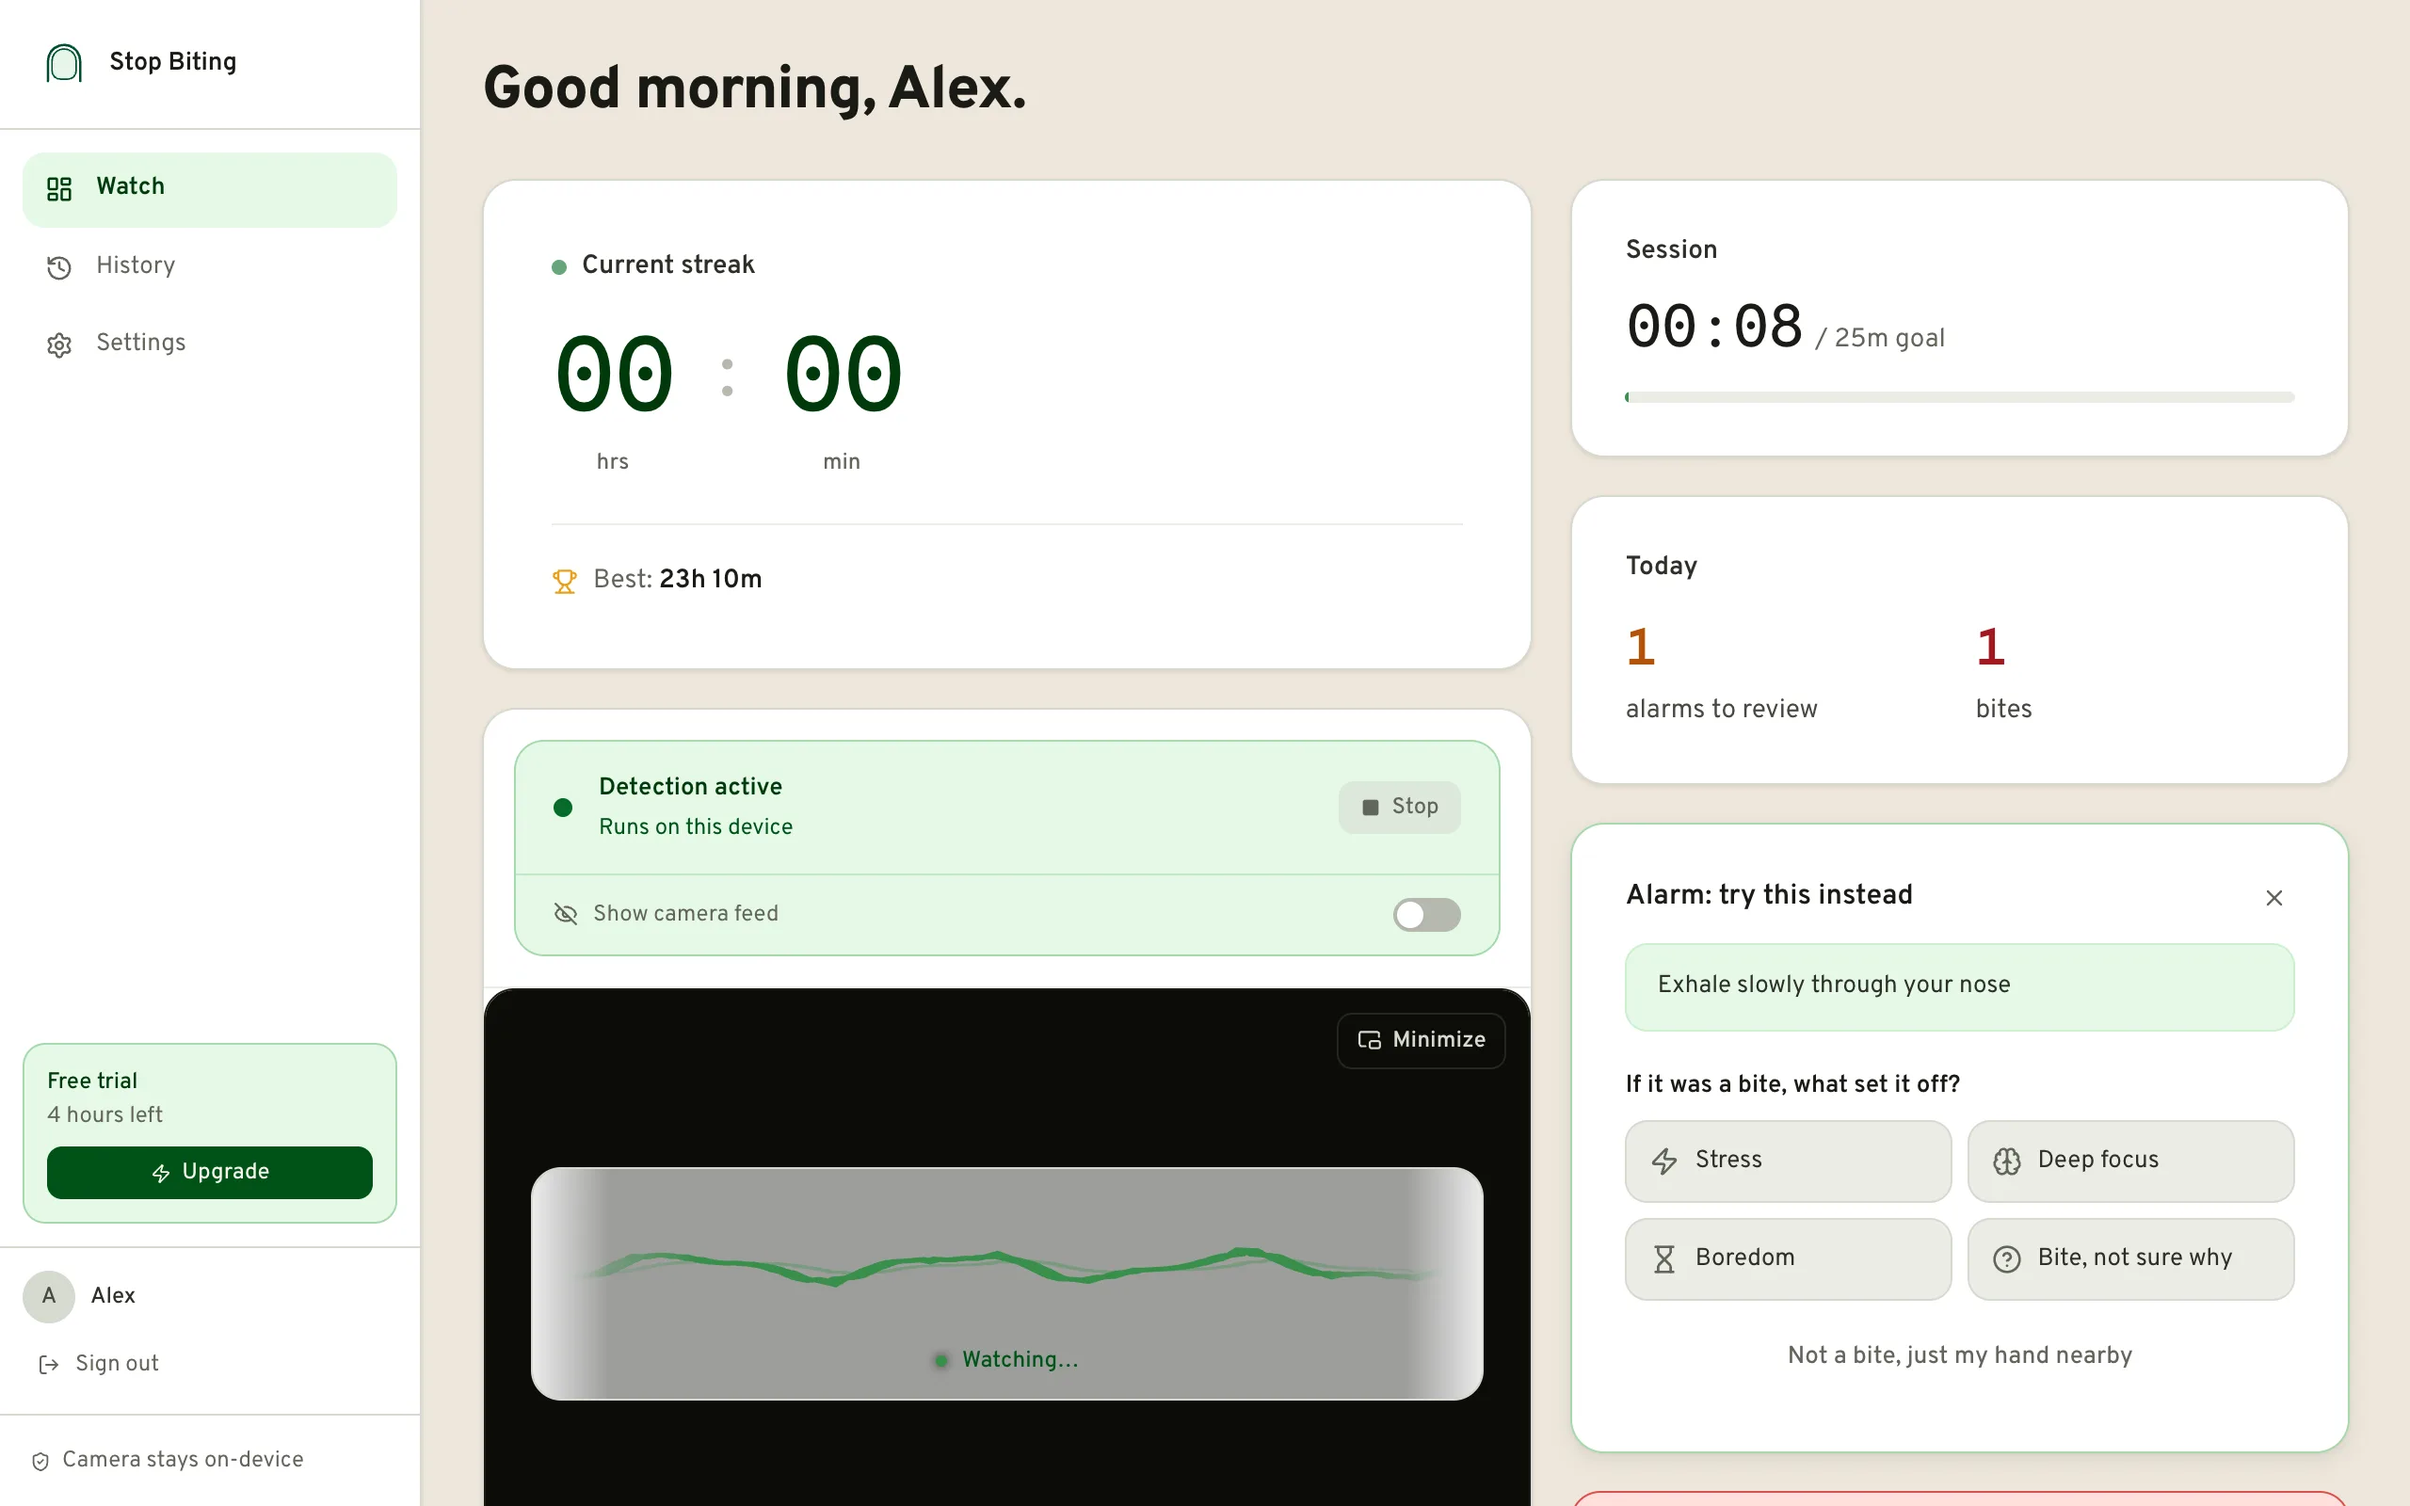
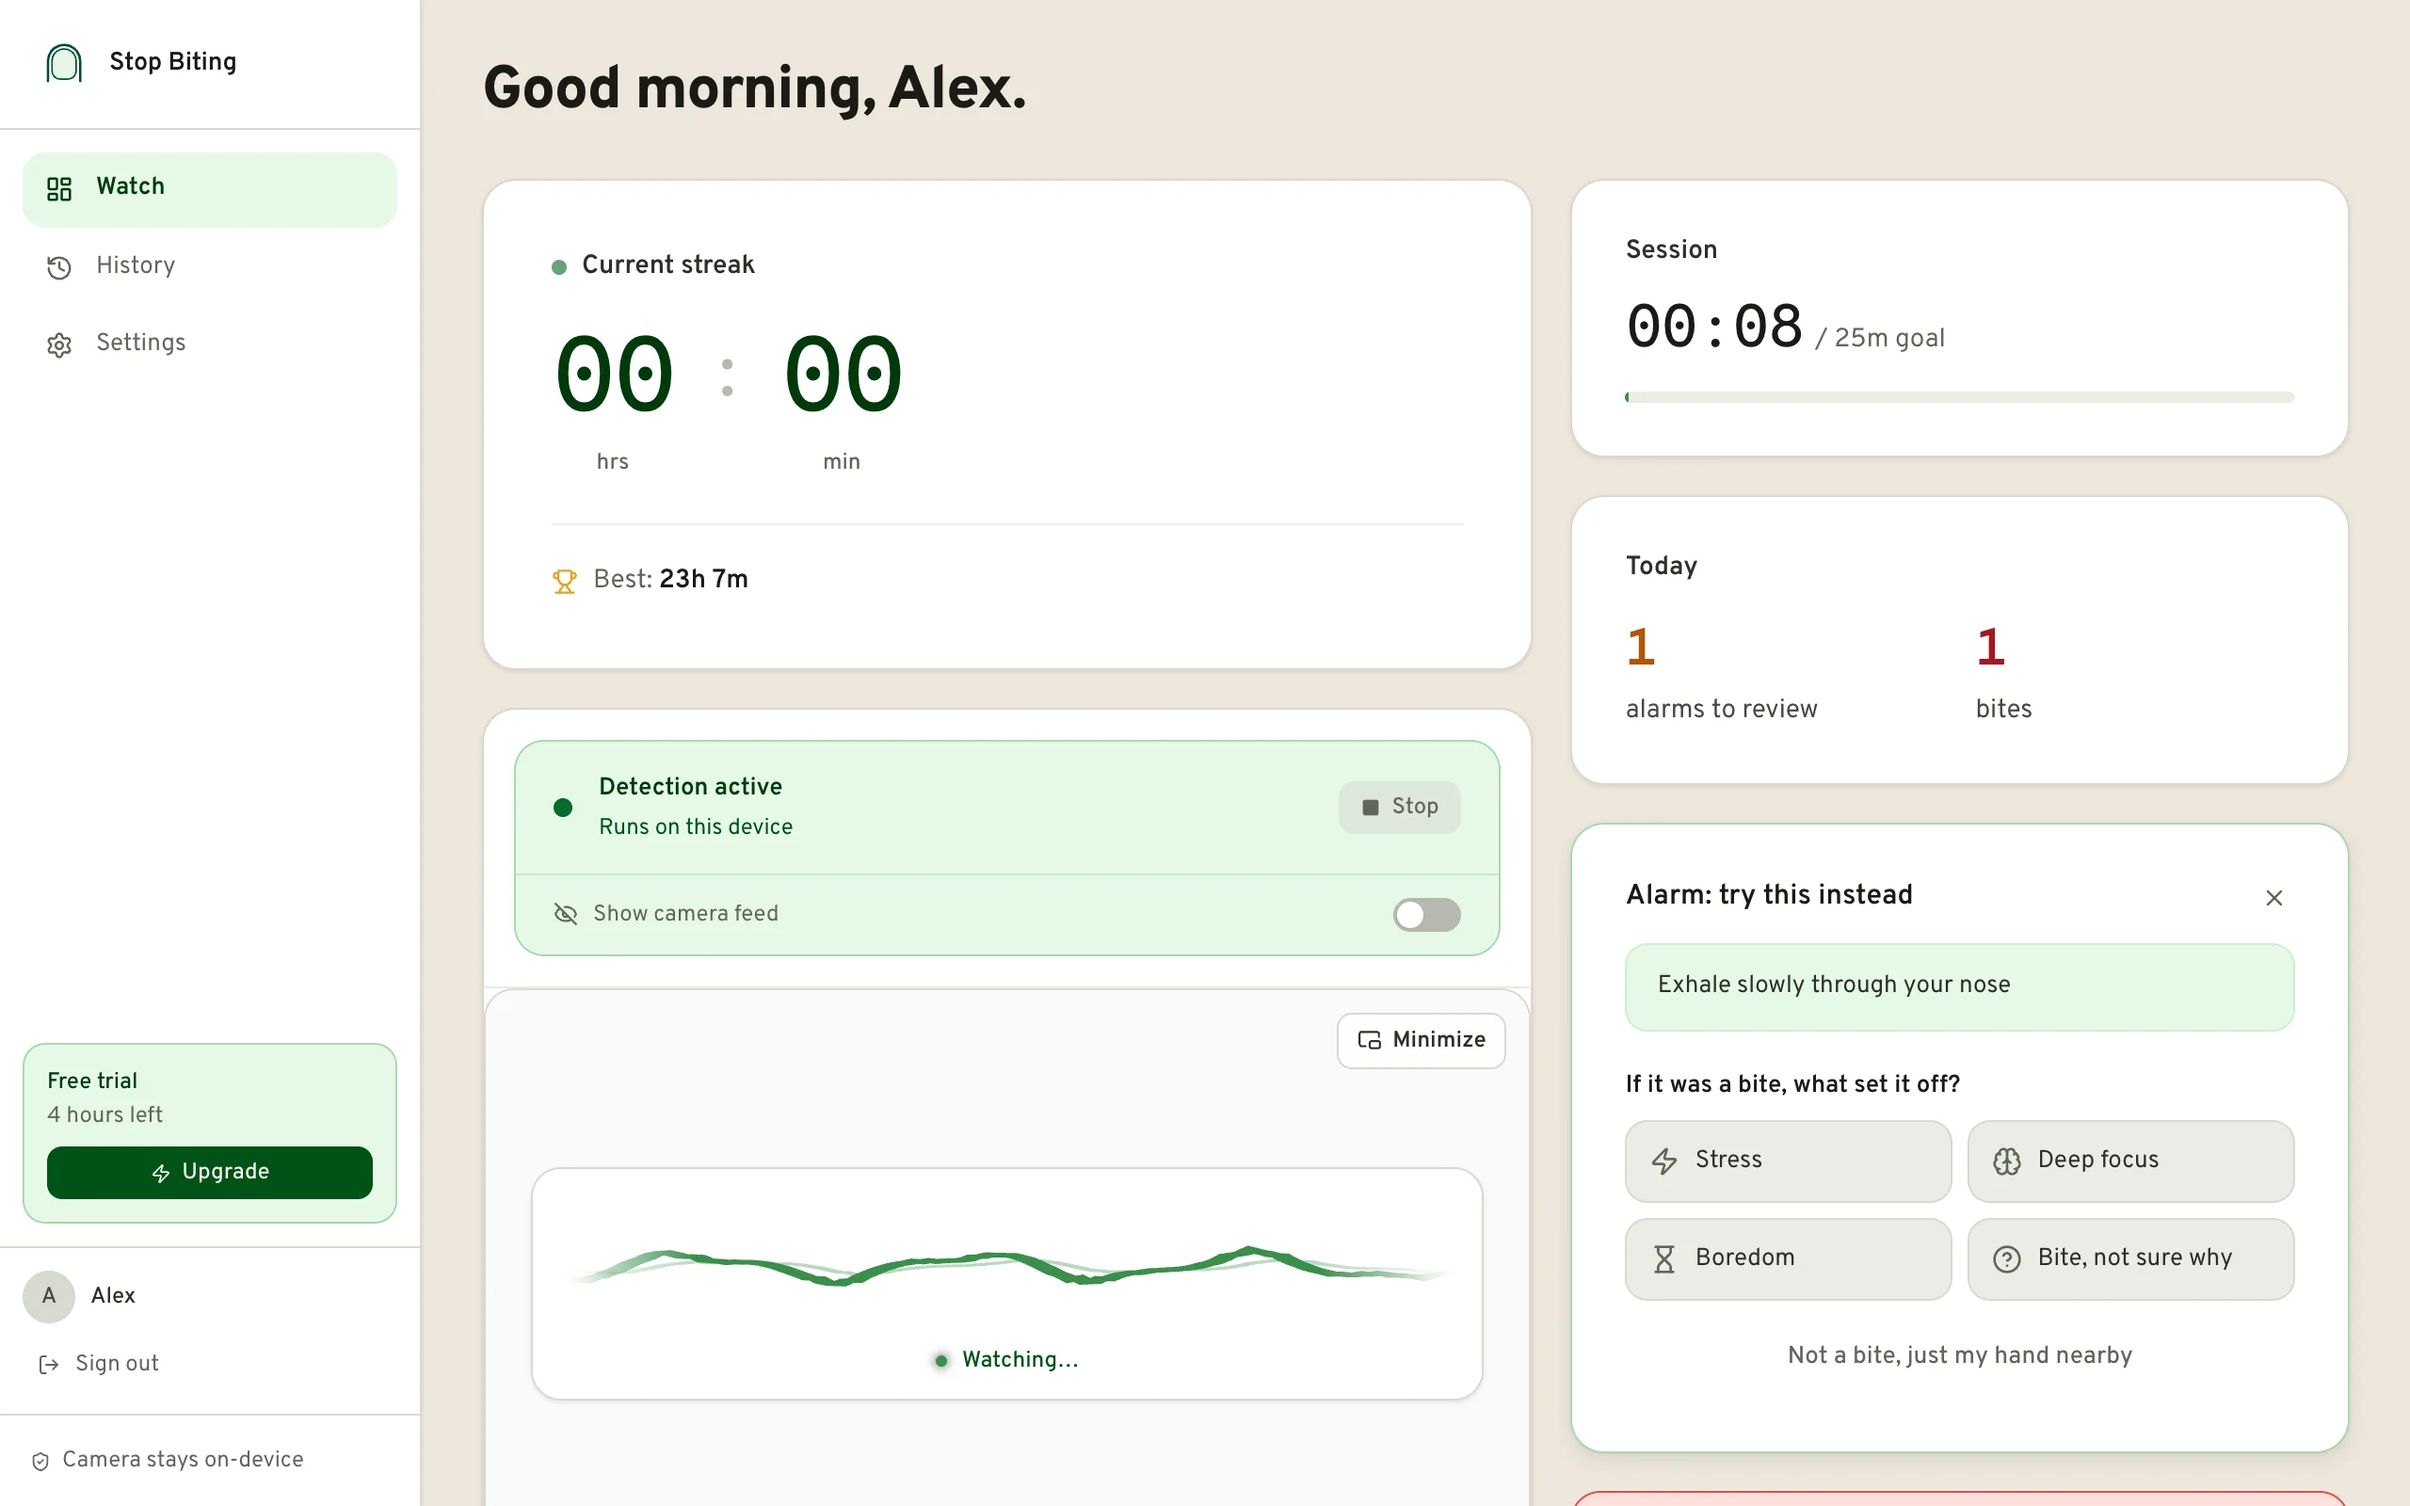
design(loop8 4/10): the idle camera well stops shouting on a light screen
In light mode the darkest, loudest thing on the Watch screen was a waiting state: a stone-900 well with a grey frosted (white/60, backdrop-blur) plate over it, pulling the eye from the streak. With the feed hidden (the default while you work) the well is now stone-50 with a solid white wave card and a stone-200 frame border; the Minimize button is a light pill instead of a dark one. Dark mode keeps its ink surfaces, and the live video still covers the frame when the feed is shown. Homepage app screenshots recaptured. Checked light and dark.

Changed region(s): [[0.1875, 0.6562, 0.6562, 1.0], [0.2812, 0.375, 0.3125, 0.4062]]

diff --git a/src/components/detection/DetectionSurface.tsx b/src/components/detection/DetectionSurface.tsx
@@ -56,10 +56,10 @@ export function DetectionSurface({
       <AlertOverlay visible={showFlash} />
 
       <div
-        className={`relative bg-stone-900 dark:bg-ink-50 rounded-2xl overflow-hidden border transition-all duration-300 ${
+        className={`relative bg-stone-100 dark:bg-ink-50 rounded-2xl overflow-hidden border transition-all duration-300 ${
           isAlerting
             ? 'border-alert-400 shadow-[0_0_0_3px_oklch(55%_0.22_25/0.35)] animate-[alert-ring_1s_ease-in-out_infinite]'
-            : 'border-stone-800 dark:border-ink-400'
+            : 'border-stone-200 dark:border-ink-400'
         }`}
       >
         {/* Video element always present for MediaPipe, visibility toggled */}
@@ -95,14 +95,16 @@ export function DetectionSurface({
         )}
 
         {cameraEnabled && !cameraFailed && !showFeed && (
-          <div className="w-full aspect-video flex flex-col items-center justify-center bg-stone-900 dark:bg-ink-50 px-6">
+          // Feed hidden (the default while you work): a quiet well, not a
+          // black slab that out-shouts the streak on a light screen.
+          <div className="w-full aspect-video flex flex-col items-center justify-center bg-stone-50 dark:bg-ink-50 px-6">
             <DetectionWave detectionStatus={status} />
           </div>
         )}
 
         {/* Offline / idle state — wave runs in demo mode */}
         {!cameraEnabled && (
-          <div className="w-full aspect-video flex flex-col items-center justify-center bg-stone-950 dark:bg-ink-300 px-6">
+          <div className="w-full aspect-video flex flex-col items-center justify-center bg-stone-100 dark:bg-ink-300 px-6">
             <DetectionWave />
           </div>
         )}

diff --git a/src/components/detection/CameraView.tsx b/src/components/detection/CameraView.tsx
@@ -83,7 +83,7 @@ export function CameraView({ videoRef, cameraError = null, onModelError }: Props
             className={`absolute top-3 right-3 flex items-center gap-1.5 px-2.5 py-1.5 rounded-lg text-xs font-semibold transition-all duration-150 ${
               pipActive
                 ? 'bg-forest-600 text-cream-100 shadow-md ring-1 ring-forest-400/40'
-                : 'bg-stone-900/75 text-stone-200 hover:bg-stone-800 hover:text-white border border-white/10'
+                : 'bg-white/90 text-stone-700 hover:bg-white border border-stone-200 dark:bg-ink-100/90 dark:text-stone-200 dark:hover:bg-ink-100 dark:border-ink-400'
             }`}
           >
             <PictureInPicture2 size={13} />

diff --git a/src/components/DetectionWave.tsx b/src/components/DetectionWave.tsx
@@ -235,7 +235,7 @@ export function DetectionWave({ className = '', detectionStatus }: Props) {
       aria-hidden="true"
     >
       {/* Waveform card */}
-      <div className="relative rounded-2xl border border-stone-200 dark:border-ink-400 bg-white/60 dark:bg-ink-50/60 backdrop-blur-sm overflow-hidden px-4 pt-3 pb-2 shadow-card">
+      <div className="relative rounded-2xl border border-stone-200 dark:border-ink-400 bg-white dark:bg-ink-50 overflow-hidden px-4 pt-3 pb-2 shadow-card">
 
         {/* Gradient fade on left & right edges */}
         <div className="pointer-events-none absolute inset-y-0 left-0 w-10 bg-gradient-to-r from-white/80 dark:from-ink-50/80 to-transparent z-10" />

diff --git a/tasks/design-loop-8.md b/tasks/design-loop-8.md
@@ -1,9 +1,8 @@
 # Design loop, round 8 (10 iterations, every 5 min)
 
-iterations: 3
+iterations: 4
 
 ## Backlog
-- 4: Watch in light mode: the idle camera well is a black slab with a grey frosted plate; make it calm.
 - 5: Dark mode: control fills darker than their cards (holes); forest tints invisible on ink.
 - 6: Cards built to different specs on Watch/History (padding, title spacing, radius, a card nested in a card).
 - 7: Homepage pricing is the only centred, narrower section; align it with the page.
@@ -15,3 +14,4 @@ iterations: 3
 - 1/10: homepage: History copy top-aligned + sticky (no 270px hole); FAQ list on the shared column line
 - 2/10: History: one card per day with divided rows; 'Bite, <tag>' labels
 - 3/10: History on phones: entries first, chart after; homepage shots + alt text updated
+- 4/10: Watch: calm light camera well, solid wave card, light Minimize pill; shots recaptured
